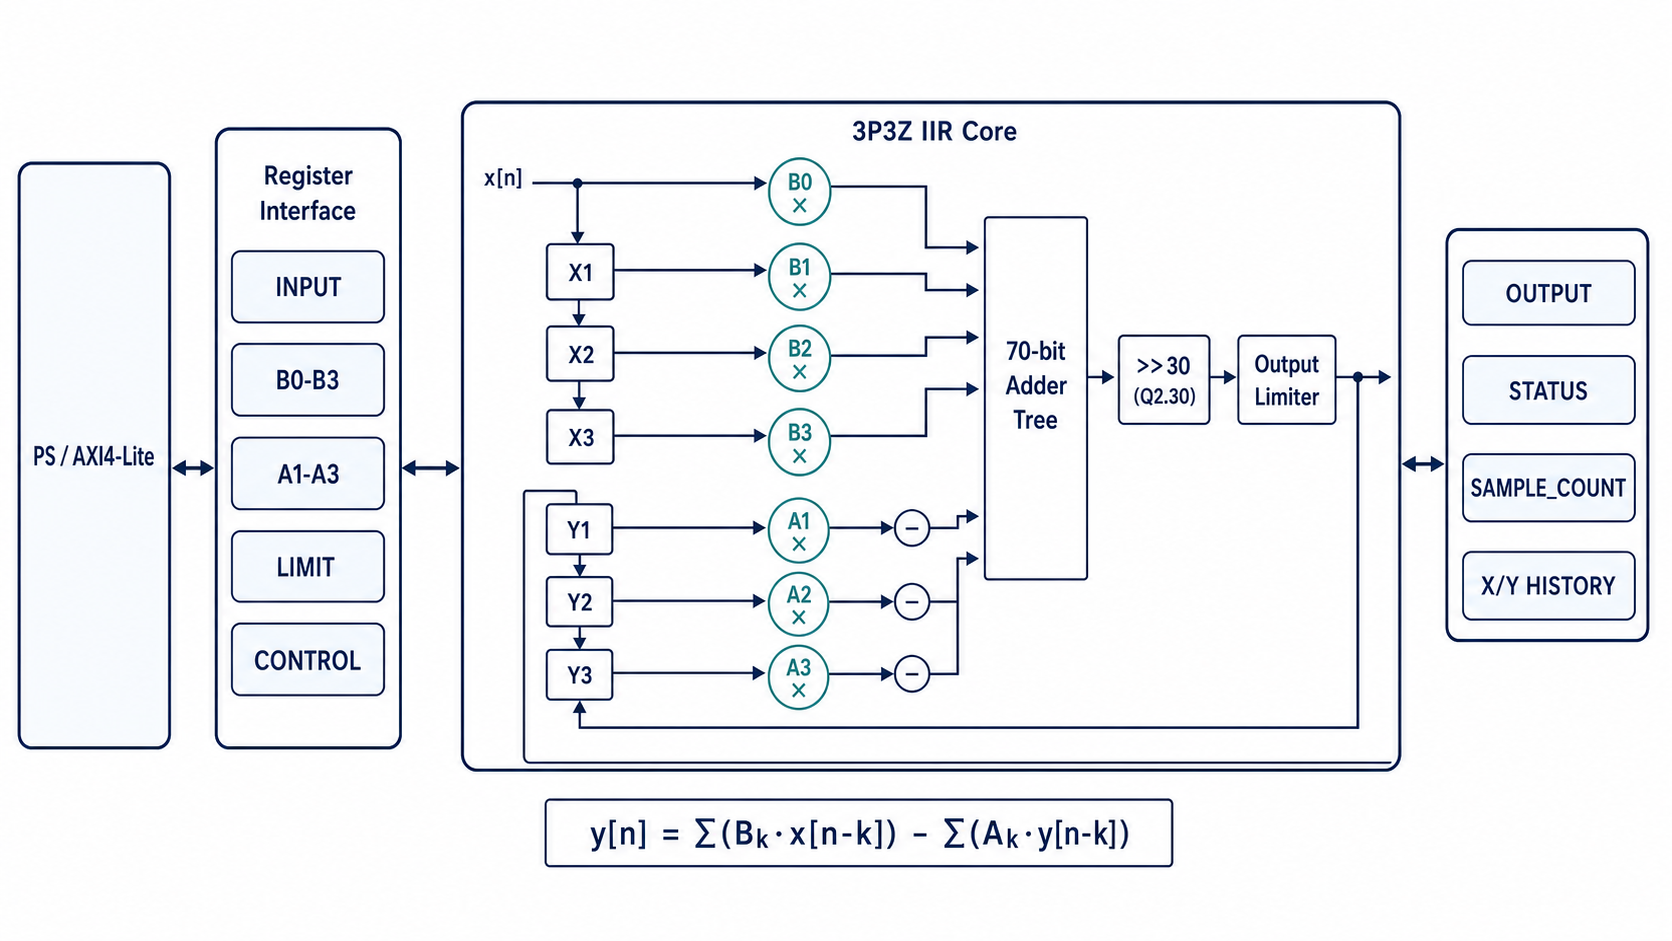
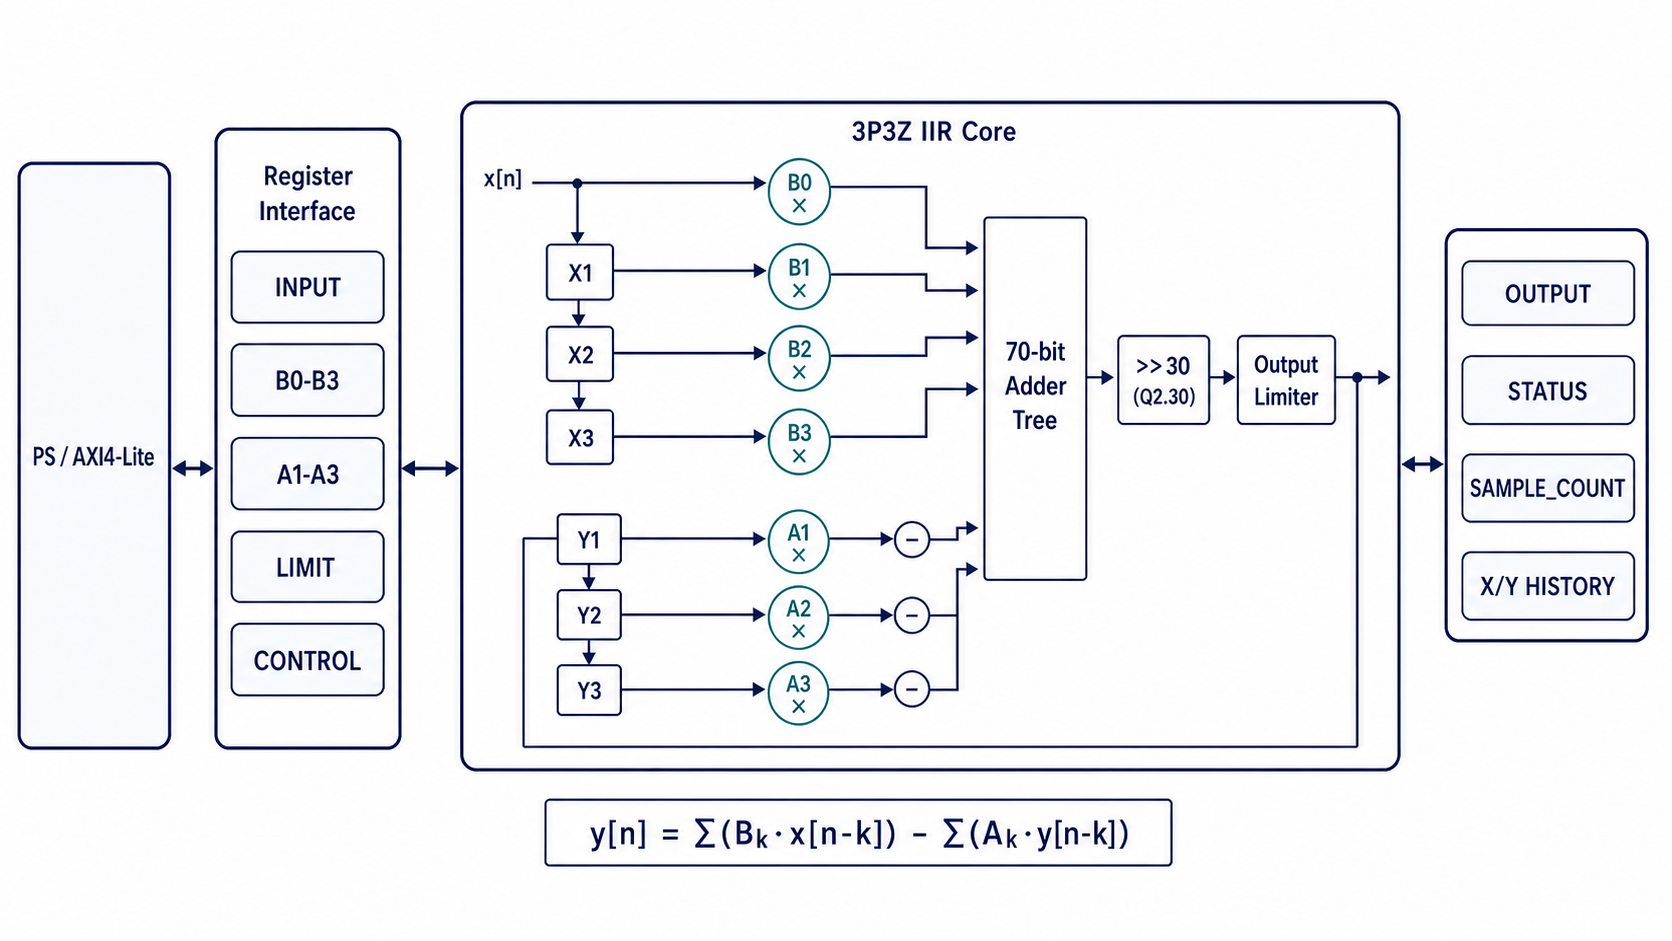
docs: 收敛 IIR RTL 简图资源

diff --git a/verilog/iir/doc/design/axi_iir_3p3z_design.md b/verilog/iir/doc/design/axi_iir_3p3z_design.md
@@ -9,7 +9,7 @@
 
 ## RTL 简图
 
-![AXI 3P3Z IIR RTL结构](axi_iir_3p3z_rtl_v2.png)
+![AXI 3P3Z IIR RTL结构](axi_iir_3p3z_rtl.png)
 
 AXI 封装保存软件可写配置并产生单周期控制脉冲。core 内部由 X/Y 历史、
 并行乘法器、加法树、定点缩放和限幅器组成；限幅后的输出同时进入状态寄存器
